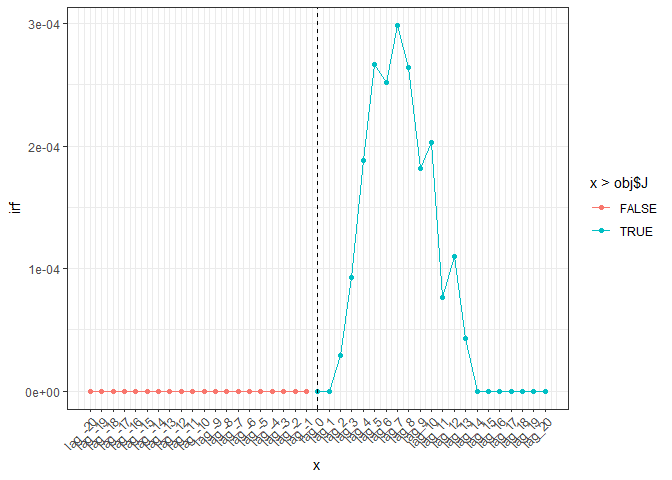
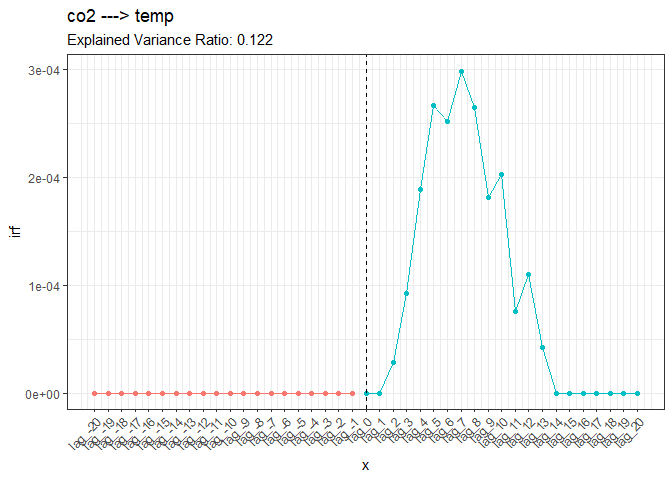
v0.1.0

diff --git a/README.md b/README.md
@@ -6,7 +6,14 @@
 <!-- badges: start -->
 <!-- badges: end -->
 
-The goal of causirf is to …
+The goal of causirf is to implement the method proposed in:
+
+- [Revisiting causality using stochastics: 1.
+  Theory](https://royalsocietypublishing.org/doi/10.1098/rspa.2021.0835)
+- [Revisiting causality using stochastics: 2.
+  Applications](https://royalsocietypublishing.org/doi/10.1098/rspa.2021.0836)
+
+for causal analysis.
 
 ## Installation
 
@@ -24,12 +31,13 @@ This is a basic example which shows you how to solve a common problem:
 
 ``` r
 library(causirf)
-
+library(ggplot2)
+#> Warning: package 'ggplot2' was built under R version 4.1.2
 data(temp_co2_data)
 
-obj_causal_temp_co2 <- est_causal(temp_co2_data, "temp", "co2", J = 20, lambda = 10)
+obj_causal_temp_co2 <- est_irf(temp_co2_data, "temp", "co2", J = 20, lambda = 10)
 
-autoplot.est_causal(obj_causal_temp_co2)
+autoplot(obj_causal_temp_co2)
 ```
 
 <img src="man/figures/README-example-1.png" width="100%" />
@@ -39,30 +47,3 @@ evr(obj_causal_temp_co2)
 #>           co2
 #> co2 0.1223941
 ```
-
-What is special about using `README.Rmd` instead of just `README.md`?
-You can include R chunks like so:
-
-``` r
-summary(cars)
-#>      speed           dist       
-#>  Min.   : 4.0   Min.   :  2.00  
-#>  1st Qu.:12.0   1st Qu.: 26.00  
-#>  Median :15.0   Median : 36.00  
-#>  Mean   :15.4   Mean   : 42.98  
-#>  3rd Qu.:19.0   3rd Qu.: 56.00  
-#>  Max.   :25.0   Max.   :120.00
-```
-
-You’ll still need to render `README.Rmd` regularly, to keep `README.md`
-up-to-date. `devtools::build_readme()` is handy for this. You could also
-use GitHub Actions to re-render `README.Rmd` every time you push. An
-example workflow can be found here:
-<https://github.com/r-lib/actions/tree/v1/examples>.
-
-You can also embed plots, for example:
-
-<img src="man/figures/README-pressure-1.png" width="100%" />
-
-In that case, don’t forget to commit and push the resulting figure
-files, so they display on GitHub and CRAN.
